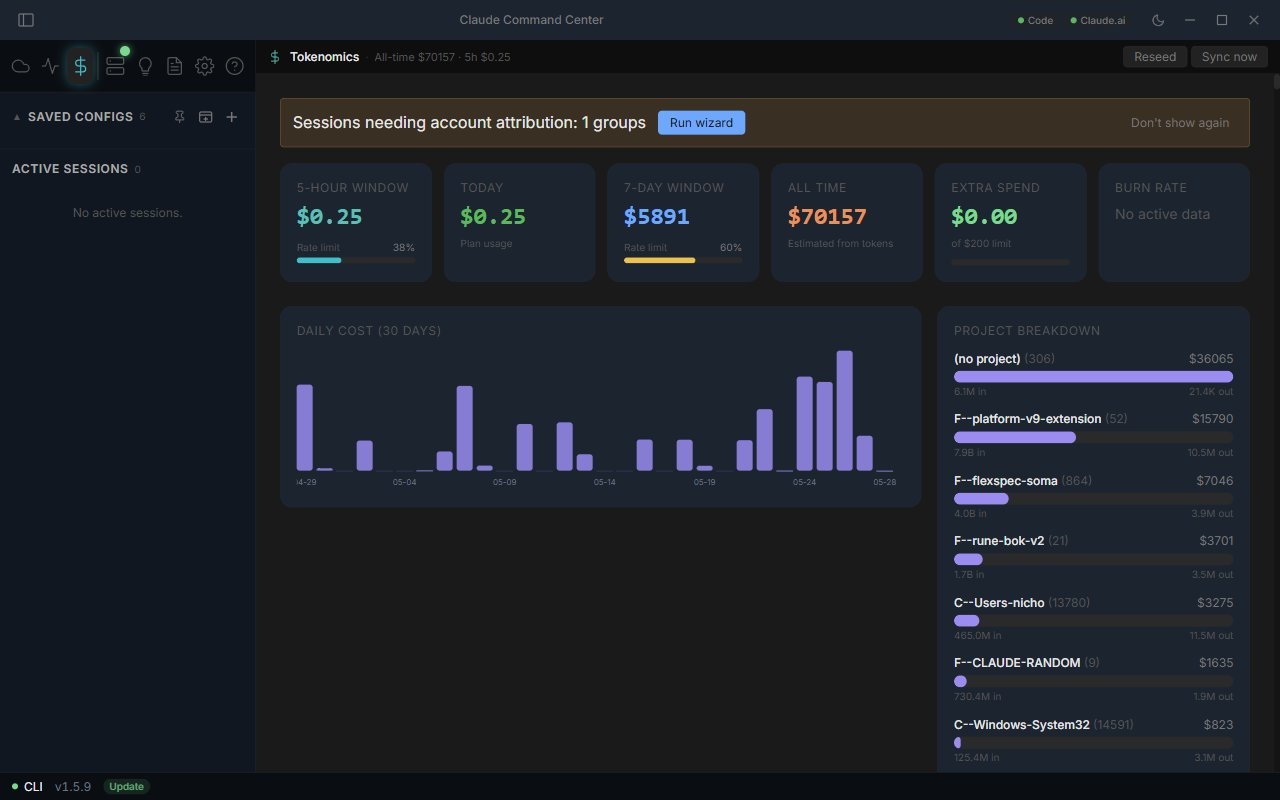
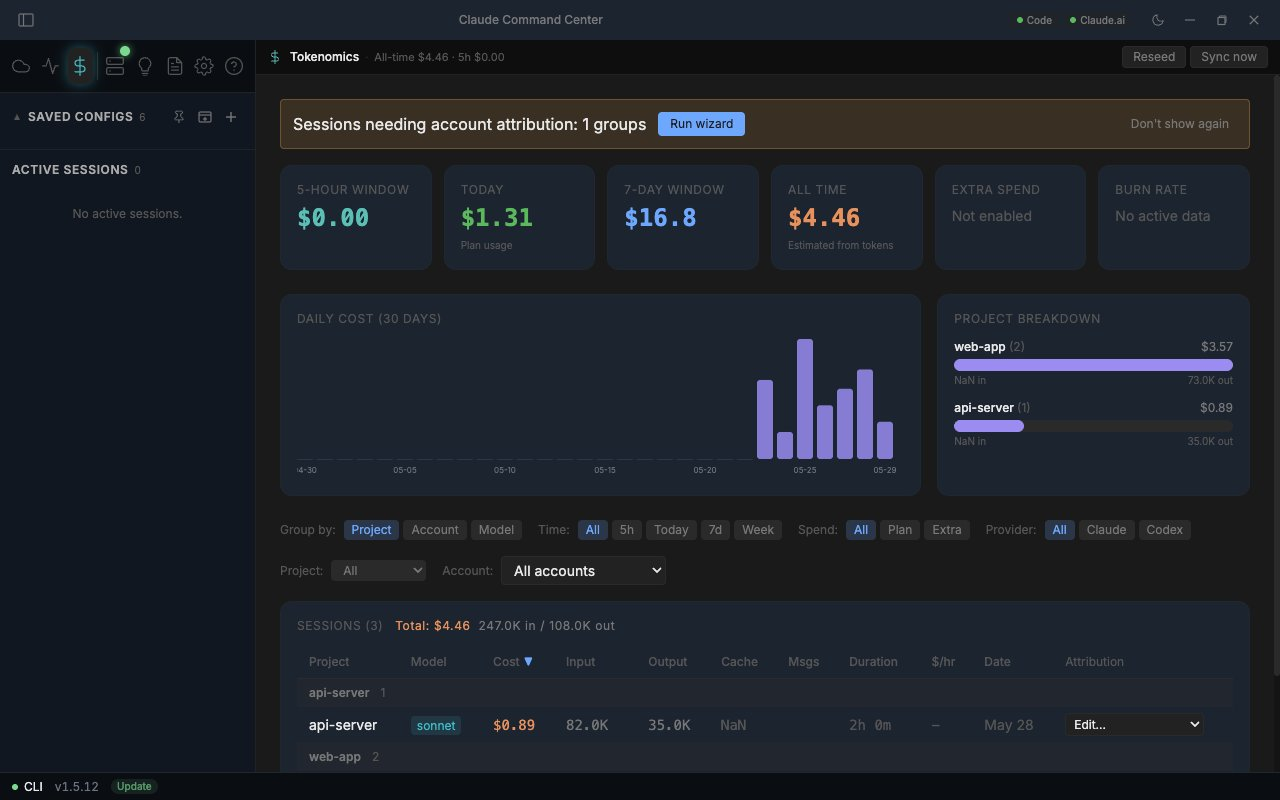
chore(capture): refresh v1.5.13 Mac assets + electron close SIGKILL fallback
Captured against beta HEAD with the flushSync harness + polish patches
(dismissModals chains Got it / Close button clicks, demo seed sets
localMachineName to Demo Workstation, v2-shell-hero drops the
duplicate Web App relaunch).

All 17 training screenshots + 10 docs/screenshots refreshed in one
run. Notable changes:

- step-session-options.jpg: Edit dialog shows Opus 4.8 model,
  Ultracode effort, Fast Mode ticked. Backs the README hero block
  and tour Step 1, replacing the v1.5.9-era capture that did not
  show any of the new controls.
- step-permission-tray.jpg: real React PermissionToast top-right with
  red destructive banner, rm -rf payload, Allow / Deny / Allow once
  buttons. No more What's New modal overlay.
- step-dynamic-workflows.jpg: Settings General Security section with
  the workflows toggle in clear view. Hostname shown as
  Demo Workstation.
- v2-shell-hero.jpg: three distinct sessions (Web App / Mobile App /
  API Server) in the sidebar, API Server active.

Also adds a SIGKILL fallback to main()'s close sequence: after the
graceful app.close() race, if Electron has not exited within 5s the
child process is killed so the window does not hang on the user's
screen.

Known leftover (separate task): the hero's terminal pane still shows
"[Process exited with code 1]" because the seeded
/Users/developer/Projects/... paths do not exist on the capture host.
Either pre-create them in seedSampleData or change spawn to fall back
to homedir when cwd is missing.

diff --git a/scripts/capture-training-screenshots.ts b/scripts/capture-training-screenshots.ts
@@ -1053,7 +1053,20 @@ async function main() {
     // screenshots reliably. Tour falls back to the legacy bullet view.
 
     console.log('[capture] Closing app...')
-    await app.close()
+    // app.close() opens a graceful-shutdown race; if Electron does not
+    // exit within ~5s we SIGKILL the underlying node-spawned process so
+    // it does not leave a window hanging on the user's screen. Playwright
+    // exposes the child via app.process().
+    const child = app.process()
+    let closed = false
+    await Promise.race([
+      app.close().then(() => { closed = true }),
+      new Promise<void>((r) => setTimeout(r, 5000)),
+    ])
+    if (!closed) {
+      console.warn('[capture] app.close() did not finish in 5s -- SIGKILL')
+      try { child.kill('SIGKILL') } catch {}
+    }
   } finally {
     cleanupSampleData(backupInfo)
   }
